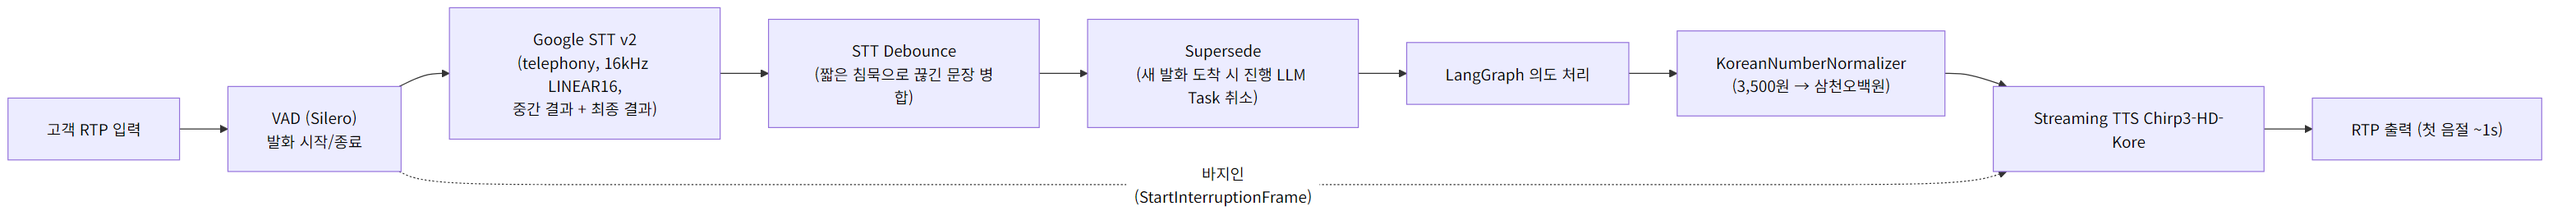
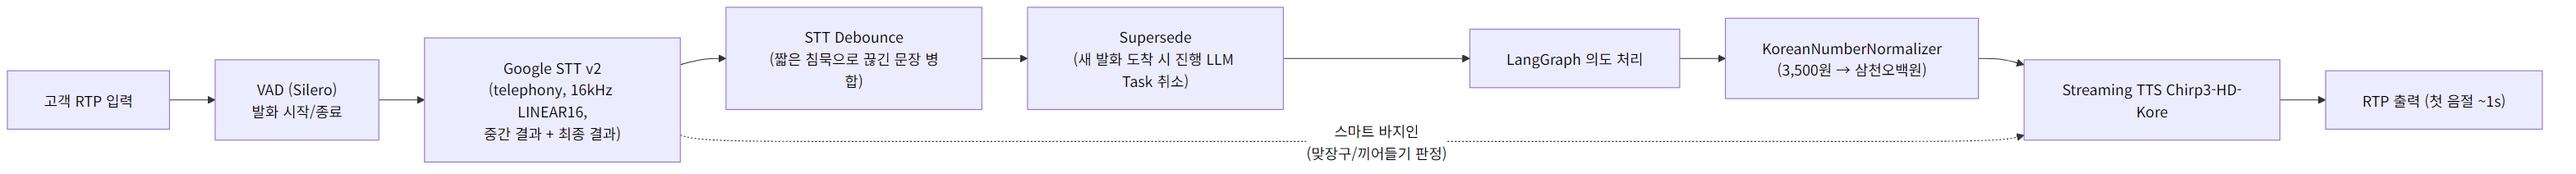
Correct Barge-in explanation to Smart Barge-in
Made-with: Cursor

diff --git a/docs/presentation/PROJECT_BRIEF.md b/docs/presentation/PROJECT_BRIEF.md
@@ -117,7 +117,7 @@ Agentic AI Callbot은 표준 SIP 기반 통화 제어 위에 실시간 음성 AI
 #### 상세 기능
 
 - **자연어 응대** — 한 문장에 날짜·시간·인원·요청을 동시에 담아도 인식합니다.
-- **Barge-in (바지인)** — VAD가 사용자 발화를 감지하는 즉시 `StartInterruptionFrame`으로 TTS를 끊고 새 의도를 처리합니다.
+- **스마트 바지인 (Smart Barge-in)** — 단순 VAD 감지로 TTS를 즉시 끊지 않고, STT로 인식된 텍스트의 단어 수와 키워드를 평가하여 단순 맞장구("네", "아하")와 실제 끼어들기를 구분한 뒤 유효한 질문일 때만 TTS를 중단시킵니다.
 - **Streaming TTS** — LLM 첫 문장이 완성되는 즉시 합성·송출이 시작됩니다.
 - **STT Debounce** — 짧은 침묵으로 끊긴 발화를 1.2초 윈도로 합쳐서 한 발화로 처리합니다.
 - **STT Supersede** — 동일 통화에서 새 발화가 도착하면 진행 중이던 LLM 작업을 취소하고 병합 재처리합니다.
@@ -140,7 +140,7 @@ Agentic AI Callbot은 표준 SIP 기반 통화 제어 위에 실시간 음성 AI
   - **결과** — AI가 "내일 저녁 7시 4인 창가 자리 가능합니다. 예약해 드릴까요?" 한 번에 응답합니다.
 - **US-1.2 (말 끊고 다른 질문)**
   - **상황** — AI가 영업시간을 안내하는 도중 고객이 "잠깐, 주차는 돼요?" 라고 끼어듭니다.
-  - **시스템 처리** — VAD가 끼어들기를 감지하고 `StartInterruptionFrame`이 TTS를 즉시 중단시킵니다.
+  - **시스템 처리** — 스마트 바지인이 단순 추임새가 아닌 실제 질문("잠깐, 주차는...")임을 판정하여 TTS를 중단시킵니다.
   - **결과** — 영업시간 설명을 멈추고 "지하 주차장 무료로 이용 가능합니다." 로 자연스럽게 전환됩니다.
 - **US-1.3 (어색한 침묵 제거)**
   - **상황** — 고객이 전화 직후 침묵을 우려합니다.
@@ -667,7 +667,7 @@ AICC 엔지니어링팀의 "Voice Agent Platform" 구축 방향과 본 **Agentic
 | 구분 | AICC 엔지니어링팀 Voice Agent | Agentic AI Callbot (본 시스템) |
 |---|---|---|
 | **E2E 스트리밍 파이프라인** | STT → LLM → TTS 전 구간 병렬 스트리밍으로 E2E 지연 < 800ms 확보 목표 | Pipecat 프레임워크 기반 VAD → STT → LLM → 스트리밍 TTS 구조 적용 완료 (빠른 응답 속도 확보) |
-| **자연스러운 대화 (Turn-taking)** | Endpointing, Turn-taking, Barge-in 처리를 통한 자연스러운 대화 전환 및 끼어들기 감지 | VAD 기반 Barge-in(바지인) 구현으로 AI 발화 중 고객이 말하면 즉시 중단(StartInterruptionFrame) 및 새 의도 처리 |
+| **자연스러운 대화 (Turn-taking)** | Endpointing, Turn-taking, Barge-in 처리를 통한 자연스러운 대화 전환 및 끼어들기 감지 | 단순 VAD 기반이 아닌 **스마트 바지인(Smart Barge-in)** 구현으로 단순 맞장구와 실제 끼어들기를 구분하여 자연스러운 턴 전환 지원 |
 | **LLM 기반 동적 대화** | 사전 정의 시나리오(룰/인텐트) 한계 극복, 멀티턴 컨텍스트 관리 및 상담사 Handoff | LangGraph 기반 17개 의도 동적 라우팅, RAG 결합 응답, 신뢰도 부족 시 HITL(운영자 개입) 및 상담사 호 전환(Transfer) 지원 |
 | **업무 시스템 연계 (Tool-Calling)** | Tool-calling을 통한 CRM·기간계 연계 | LLM의 Tool Use Loop를 활용한 예약 슬롯 조회, 확정, 변경 및 Google Calendar 동기화 |
 | **운영 안정성 및 거버넌스** | Human-in-the-Loop(HITL) 승인 도입 (CUA 영역) | 통화 중 AI 자신감(Confidence) 저하 시 즉각적인 HITL 알림 및 운영자 직접 개입/정제 후 음성 송출 지원 |
